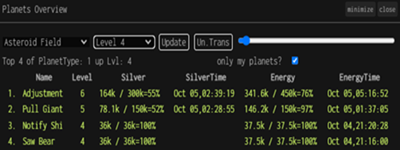
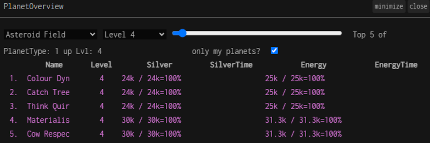
PlanetOverview-port v6R5 (#221)
* Port v6R5

* screenshot update

diff --git a/content/utilities/PlanetOverview/plugin.js b/content/utilities/PlanetOverview/plugin.js
@@ -34,17 +34,21 @@ import {
   PlanetLevelNames,
 } from "https://cdn.skypack.dev/@darkforest_eth/types";
 
+//port v6r5
+import { getPlanetName } from "https://cdn.skypack.dev/@darkforest_eth/procedural";
+const pg = { getPlanetName: getPlanetName }
+
 // Constanst definitíon
 const planetType = [];
 const minLevel = [];
 const middle = [];
-const { getPlanetName, getOwnerColor } = df.getProcgenUtils();
+
 
 // Default refresh 30 seconds
 let REFRESH_INTERVAL = 1000 * 30;
 
 // Plugin Overview Default
-class Overview {
+class OverviewPlanets {
   constructor() {
     this.container = null;
     this.loopId = null;
@@ -101,7 +105,7 @@ class Overview {
         continue;
       }
       const row = document.createElement("tr");
-      row.style.color = getOwnerColor(planet);
+      row.style.color = "violet";
       row.onclick = () => {
         ui.centerLocationId(planet.locationId);
       };
@@ -135,20 +139,18 @@ class Overview {
           fullEnergyDate.substr(16, 8),
         ];
 
-      let planetName = getPlanetName(planet).substr(0, 10);
-      row.innerHTML = `<td>${
-        idx + 1
-      }.</td><td>${planetName}</td><td style="text-align: center">${
-        planet.planetLevel
-      }</td><td>${formatNumberForDisplay(
-        getSilver(planet)
-      )} / ${formatNumberForDisplay(
-        planet.silverCap
-      )}=${silverPercent}%</td><td>${fullSilverTime}</td><td>${formatNumberForDisplay(
-        Math.round(planet.energy)
-      )} / ${formatNumberForDisplay(
-        planet.energyCap
-      )}=${energyPercent}%</td><td>${fullEnergyTime}</td>`;
+      let planetName = pg.getPlanetName(planet).substr(0, 10);
+      row.innerHTML = `<td>${idx + 1
+        }.</td><td>${planetName}</td><td style="text-align: center">${planet.planetLevel
+        }</td><td>${formatNumberForDisplay(
+          getSilver(planet)
+        )} / ${formatNumberForDisplay(
+          planet.silverCap
+        )}=${silverPercent}%</td><td>${fullSilverTime}</td><td>${formatNumberForDisplay(
+          Math.round(planet.energy)
+        )} / ${formatNumberForDisplay(
+          planet.energyCap
+        )}=${energyPercent}%</td><td>${fullEnergyTime}</td>`;
       this.tbody.appendChild(row);
     }
 
@@ -234,31 +236,6 @@ class Overview {
       }
     };
 
-    // Button "Update" for table
-    const updateButton = document.createElement("button");
-    updateButton.innerText = "Update";
-    updateButton.title = "Refresh immediately";
-    updateButton.style.marginRight = "10px";
-    updateButton.addEventListener("click", () => {
-      try {
-        dynamicLabel.innerText = `Top ${this.topX} of PlanetType: ${this.planetType} up Lvl: ${this.minLevel}`;
-        this.renderPlanets();
-      } catch (err) {
-        console.error("Unable to update", err);
-      }
-    });
-
-    // Button "Un.Trans" for label info status of the transactions
-    const unconfirmedButton = document.createElement("button");
-    unconfirmedButton.innerText = "Un.Trans";
-    unconfirmedButton.title = "Logs unconfirmed transactions to the console (F12)";
-    unconfirmedButton.style.marginRight = "10px";
-    unconfirmedButton.addEventListener("click", () => {
-      unconfirmedLabel();
-      unconfirmedConsole();
-      this.renderPlanets();
-    });
-
     // Slider for count of total list lines
     const topSlider = document.createElement("input");
     topSlider.title = "Select count of top revealed planets (default: 10, range: 0-100)";
@@ -328,8 +305,6 @@ class Overview {
     // Grafic append
     container.appendChild(planetType);
     container.appendChild(minPlanetLevel);
-    container.appendChild(updateButton);
-    container.appendChild(unconfirmedButton);
     container.appendChild(topSlider);
     container.appendChild(dynamicLabel);
     container.appendChild(myPLanetsLabel);
@@ -350,4 +325,4 @@ class Overview {
   }
 }
 
-export default Overview;
+export default OverviewPlanets;

diff --git a/content/utilities/PlanetOverview/index.md b/content/utilities/PlanetOverview/index.md
@@ -1,7 +1,7 @@
 ---
 title: Planets Overview
-date: 2021-10-2T16:35:06-02:00
+date: 2021-31-3T12:30:00-02:00
 subtitle: Planets Overview on your map.
-version: 0.6.4
+version: 0.6.5
 
 ---
